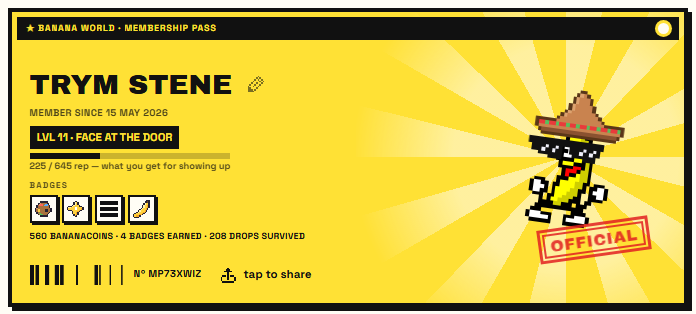
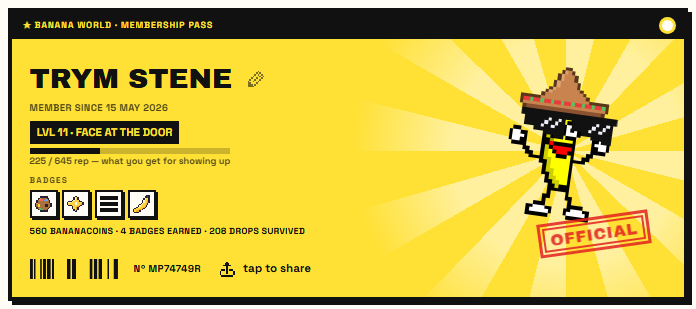
The black band belongs to the pass, and the park is alive again
THE PARK — I broke it this morning and the rig did not notice. The
ownership-converge loop I added to the garden read used `short`/`alt`,
which are declared far BELOW that handler: a TDZ error on every single
read. A throw means no CORS headers, so the browser reported a CORS
failure and the park loaded with no plants, no weeds, no litter and a
health bar with nothing behind it. The ids now come from the query
string, where a GET carries them. Verified live: 104 plots, 10 weeds,
54 plants, health 91%, the panel opens, zero console errors.

⚠ THE RIG'S BLIND SPOT, now closed. The player-walk allowlists CORS and
fetch noise — a local build genuinely cannot reach the workers — so a
live 500 was invisible and the suite stayed green through it. New gate,
tools/check-endpoints.mjs, asks the world's public endpoints from a real
origin and fails if any stops answering. Nightly, so a PR can never be
blocked by production.

THE CARD — the black header was inset 5px on every side, which read as a
stripe placed ON the card. It is part OF the pass: it runs to all three
edges under the card's own border now, the way a printed header does.

diff --git a/worker-rave/src/index.js b/worker-rave/src/index.js
@@ -1394,9 +1394,15 @@ export class ParkRoom {
       // a second phone was told "only its grower can harvest it" about their
       // own plant, with their own name printed on the card. Anything the alt
       // owns becomes the account's the moment the account looks at it.
-      if (short && alt && short !== alt) {
+      // ⚠ TDZ: `short`/`alt` are declared far BELOW this handler — reading them
+      // here threw on every read, and a throw means no CORS headers, so the
+      // browser reported a CORS failure and the park loaded with no garden at
+      // all. Take the ids from the query string, which is what a GET carries.
+      const gOwner = (url.searchParams.get('pass') || '').slice(0, 8);
+      const gAlt = (url.searchParams.get('alt') || '').slice(0, 8);
+      if (gOwner && gAlt && gOwner !== gAlt) {
         for (const o of [...slots, ...((hs && hs.list) || []), ...((bd && bd.list) || [])]) {
-          if (o && o.passShort === alt) { o.passShort = short; dirty = true; }
+          if (o && o.passShort === gAlt) { o.passShort = gOwner; dirty = true; }
         }
       }
       const body = payload(compostFor());
